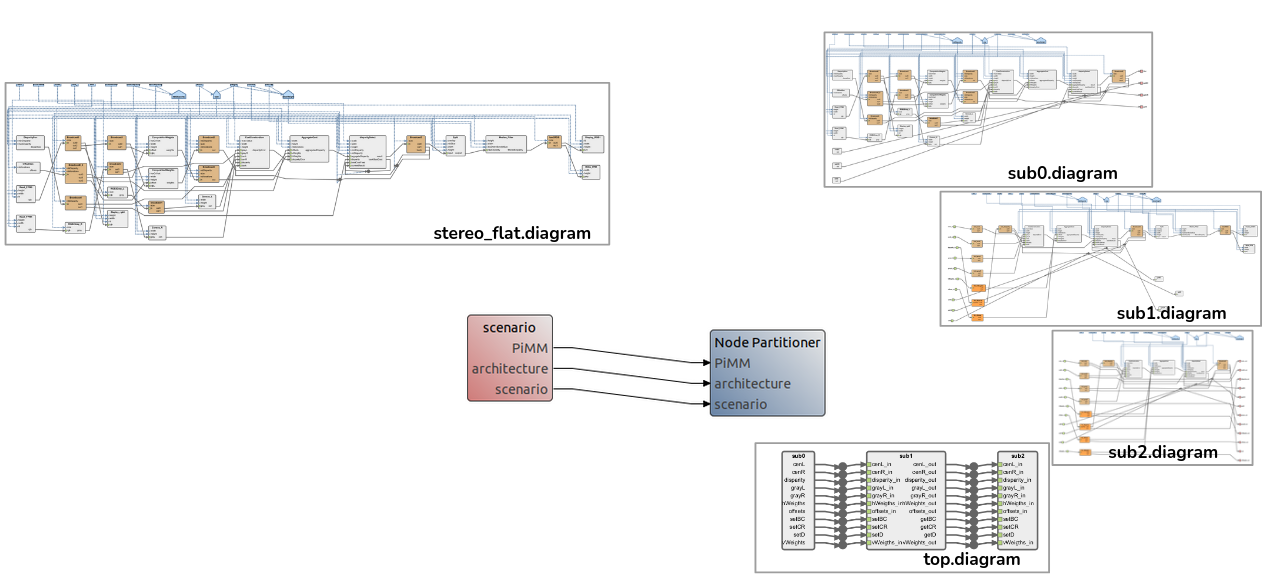
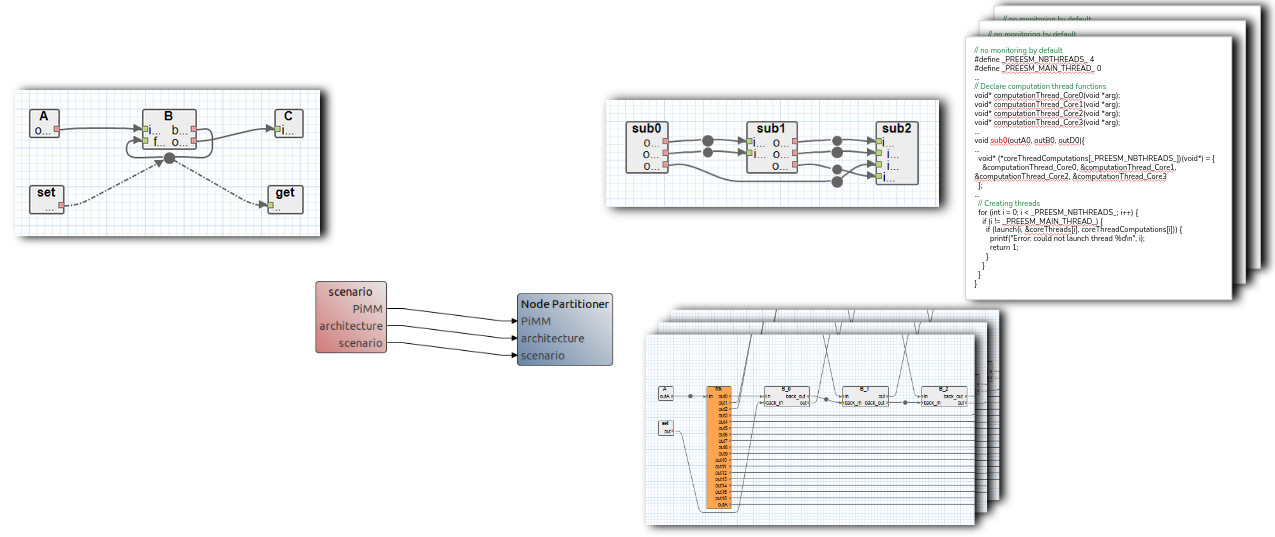
Signed-off-by: Ophelie-Renaud <ophelie.renaud@insa-rennes.fr>

Changed region(s): [[0.0, 0.0, 1.0, 1.0]]

diff --git a/README.md b/README.md
@@ -4,12 +4,21 @@ These projects are intended to illustrate the potential of the method developed 
 The purpose of my thesis is to facilitate the process of static resource allocation (during compilation) for dataflow description applications.
 
 # Project
-The PREESM project **"stereo.scape"** illustrate the Scaling up of Clusters of Actors on Processing Element (SCAPE) clustering method and its extensions on the the Stereo image processing application. The method involves adapting the granularity and parallelism of an application on a single homogeneous multicore node reducing the complexity of a dataflow application graph and increasing its performance in terms of throughput.
+## PREESM
+
+The PREESM project **"stereo.scape"** illustrate the Scaling up of Clusters of Actors on Processing Element (SCAPE) clustering method and its extensions on the Stereo image processing application. The method involves adapting the granularity and parallelism of an application on a single homogeneous multicore node reducing the complexity of a dataflow application graph and increasing its performance in terms of throughput.
 
 
 The PREESM project **"dummy.abc"** illustrate the heterogeneous mulitinode nulticore partitioning method on a dummy application.
 
-The PREESM project **"stereo.part"** illustrate the heterogeneous mulitinode nulticore partitioning method on a dummy application.
+The PREESM project **"stereo.part"** illustrate the heterogeneous mulitinode nulticore partitioning method on the Stereo image processing application.
+
+## MPI
+
+The MPI project **"MPI.helloWord"** introduce the message passing concept on a simple hello word code.
+
+The MPI project **"MPI.project.ABC"** illustrate the combination of message passing and dataflow on a simple dataflow graphe ABC.
+
 
 # Installation
 Prerequisites:

diff --git a/stereo.part/README.md b/stereo.part/README.md
@@ -47,6 +47,7 @@ You can generate the partitioned graphs following these steps:
     
 .. or take advantage of the provided graphs (Algo/part/..).
 ![](https://github.com/Ophelie-Renaud/apps/blob/main/stereo.part/Pic/node_partitioner.png)
+The partitioner produces subgraphs within the Algo folder and a topgraph with actors defined by a newly generated code. Each subgraph code includes node-specific initialization, synchronization, and thread launch details. Each core is assigned a thread.
 
 ### Thread Partitioning
 
@@ -57,6 +58,14 @@ You can simulate the intranode resource allocation and observe the generated gan
     3. Select subi.scenario
 
 ![](https://github.com/Ophelie-Renaud/apps/blob/main/stereo.part/Pic/thread_partitioner.png)
+
+In the case that data transfer cost is negligible compare to parallelism gainst and the the partition is already balanced the you can generate sub-thread code. 
+
+    1. open scape_codegen.workflow file
+    2. rightclick on the workflow “Run workflow > ..”
+    3. Select subi.scenario
+
+![](https://github.com/Ophelie-Renaud/apps/blob/main/stereo.part/Pic/thread_partitioner_code.png)
 
 ### Simulation
 
